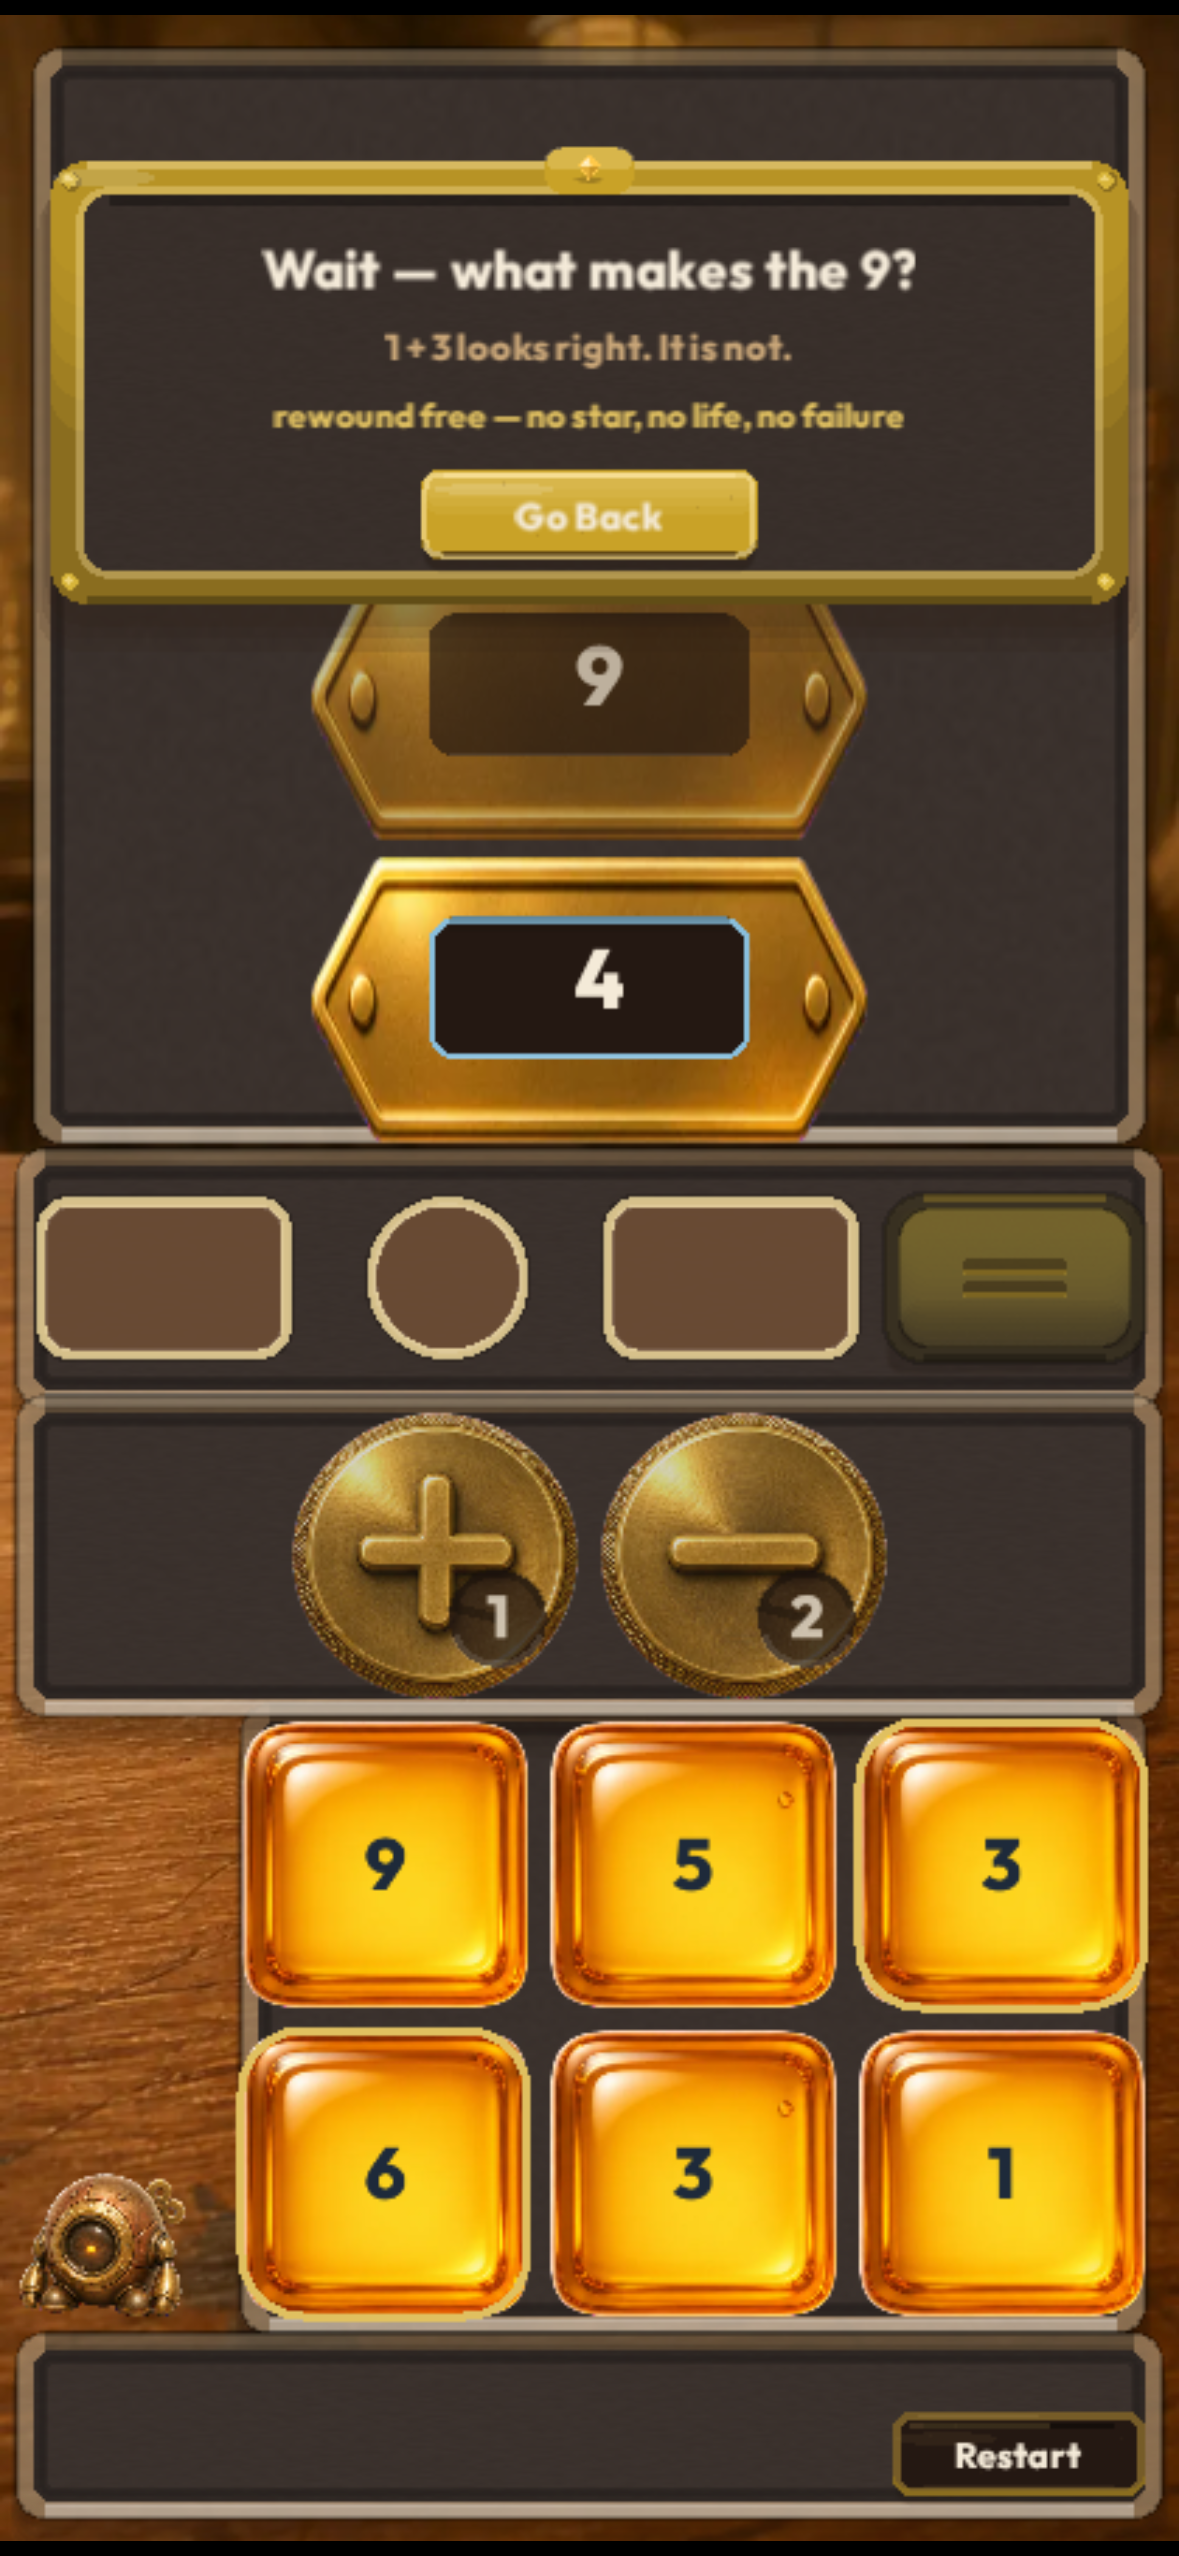
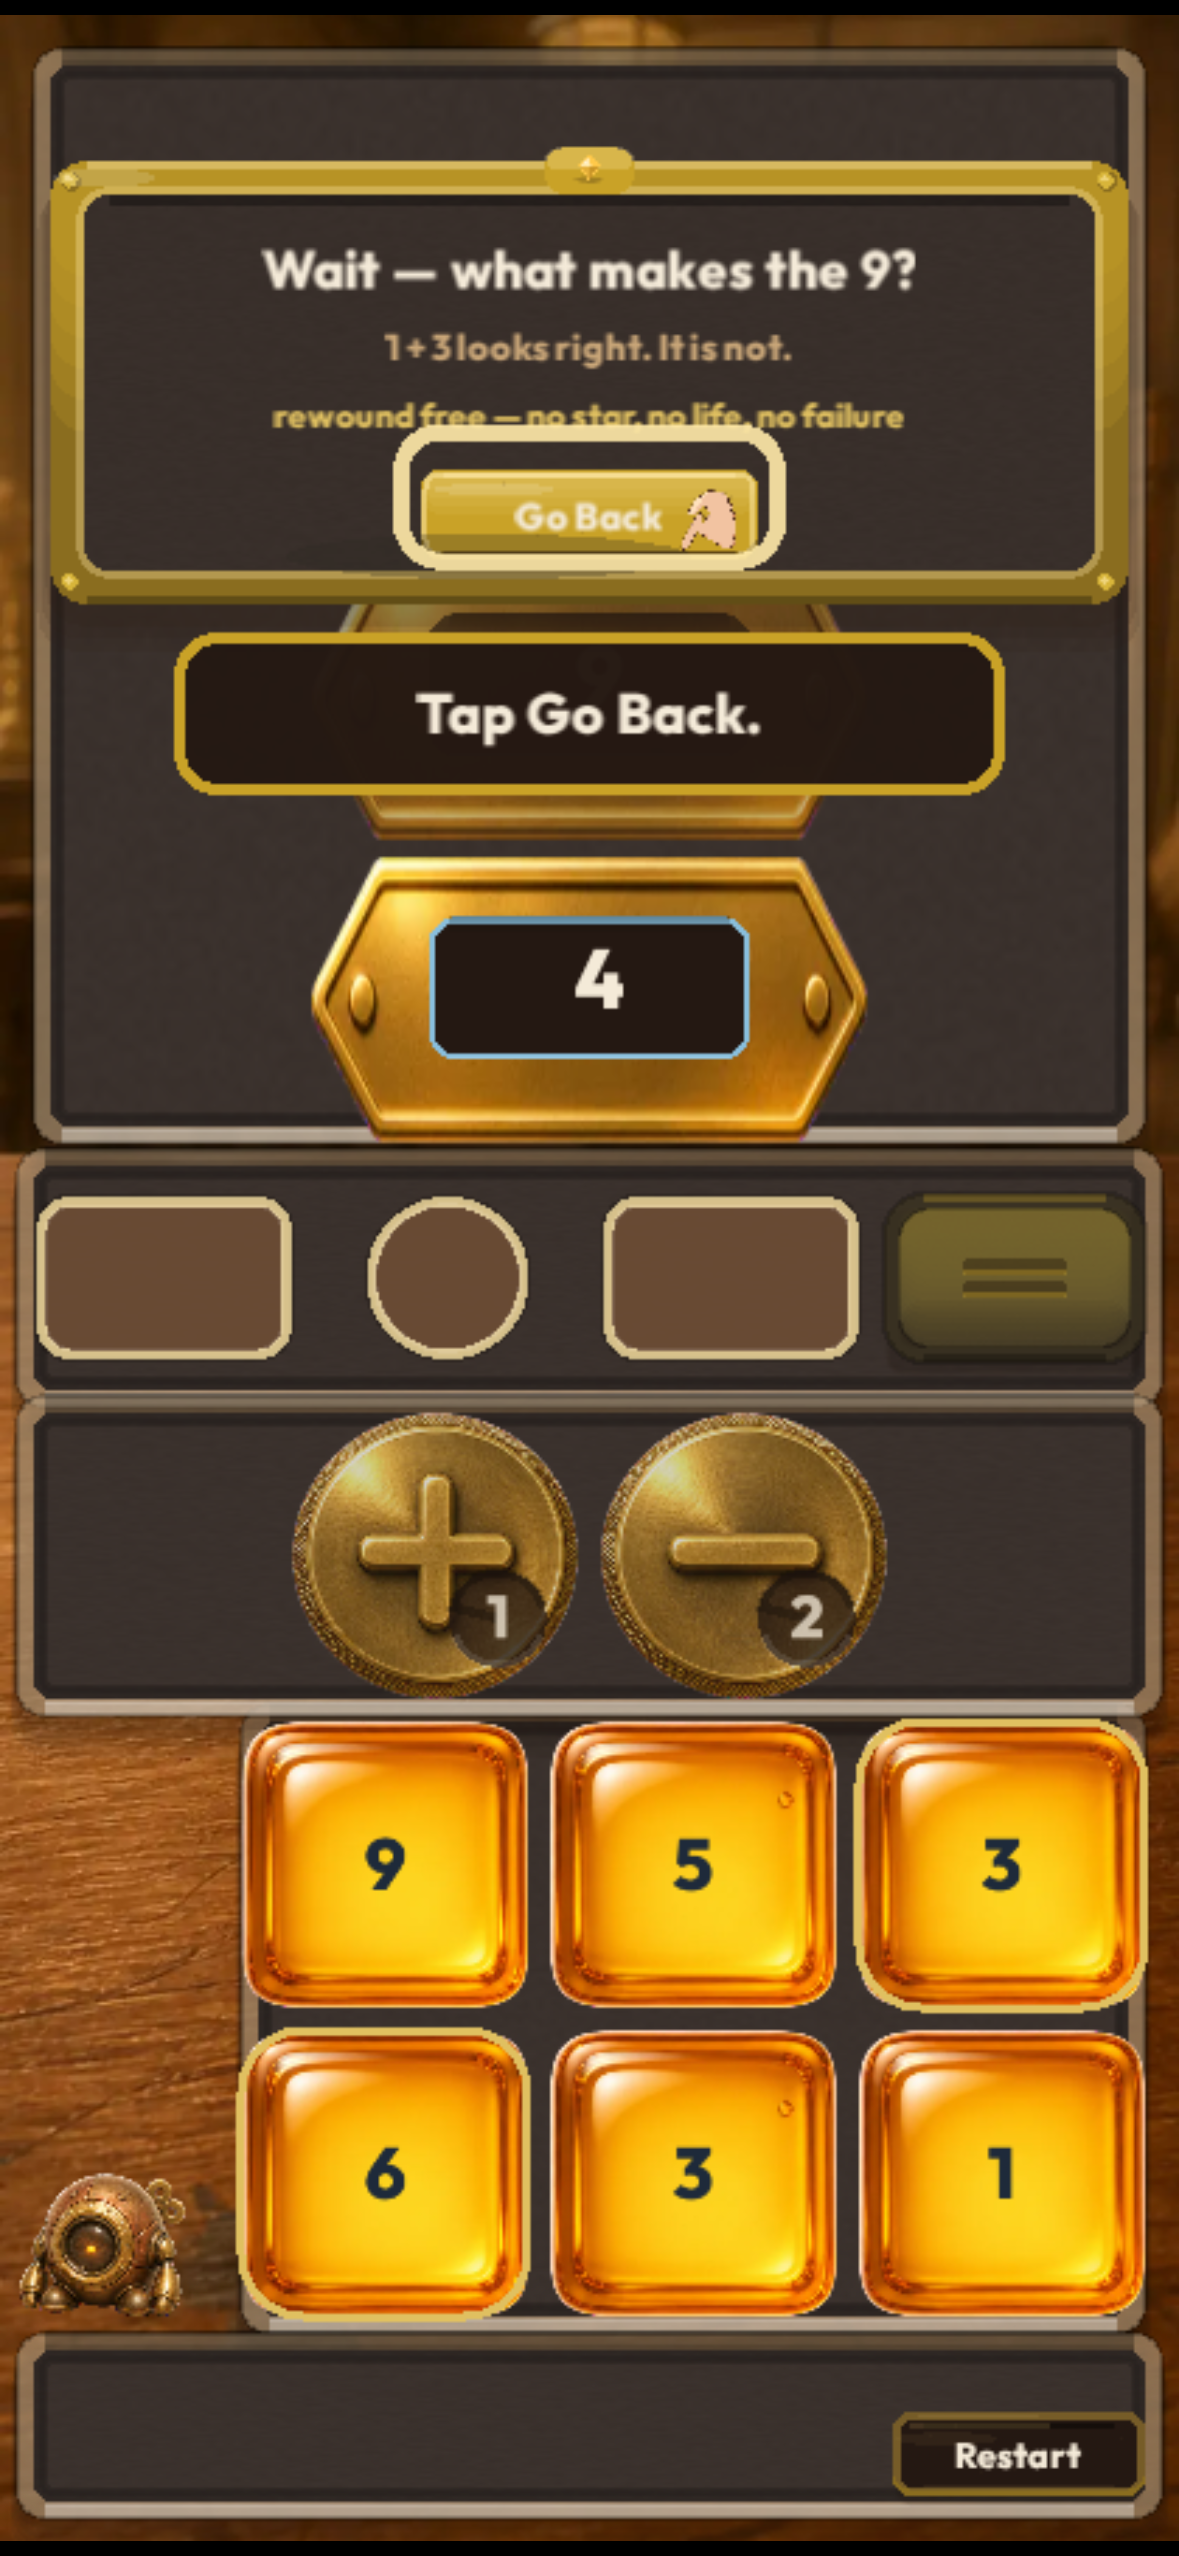
fix(ftue): point teach cue at 1-04 Go Back CTA
Settled scripted warning now draws hand+pulse+plaque on Go Back.
Recapture 25-ftue-104-v5-phone for Scout re-gate. v5 asset unchanged.

Changed region(s): [[0.1221, 0.1545, 0.855, 0.3091]]

diff --git a/src/renderer/renderer.ts b/src/renderer/renderer.ts
@@ -1427,6 +1427,52 @@ export class Renderer {
     this.root.addChild(this.box(center - 145, top + 160, 290, 38, "Start Level", () => this.emit({ type: "tapLevelIntroStart" }), { variant: "primary" }));
   }
 
+  /**
+   * Exact-action family: brass pulse ring + HUMAN-FINAL hand + caption plaque.
+   * Used for FTUE teach targets and for 1-04's settled Go Back CTA.
+   */
+  private drawExactActionCue(
+    rect: Rect,
+    line: string,
+    opts: { readonly ringAlphaScale?: number; readonly plaqueY?: number } = {},
+  ): void {
+    const cue = teachCueSample(rect, this.teachCueMs, DESIGN.width);
+    const ringAlphaScale = opts.ringAlphaScale ?? 1;
+    const shadow = new Graphics()
+      .ellipse(rect.x + rect.width * 0.2, rect.y + rect.height - 1, rect.width * 0.6, 8)
+      .fill({ color: PALETTE.text, alpha: cue.shadowAlpha });
+    shadow.zIndex = BOARD_BANDS.status + 19;
+    this.root.addChild(this.entry(shadow, BOARD_BANDS.status));
+
+    const ring = new Graphics()
+      .roundRect(rect.x - 7, rect.y - cue.lift - 7, rect.width + 14, rect.height + 14, 14)
+      .stroke({ width: 6, color: PALETTE.brassLit, alpha: cue.ringAlpha * ringAlphaScale });
+    ring.zIndex = BOARD_BANDS.status + 20;
+    this.root.addChild(this.entry(ring, BOARD_BANDS.status));
+
+    const hand = new Sprite(this.ftueHandTexture);
+    hand.anchor.set(0.31, 0.77);
+    hand.position.set(cue.handX, cue.handY);
+    hand.scale.set(0.22);
+    hand.rotation = -0.28;
+    hand.zIndex = BOARD_BANDS.status + 22;
+    hand.eventMode = "none";
+    this.root.addChild(this.entry(hand, BOARD_BANDS.status));
+
+    const plaqueRect = opts.plaqueY === undefined ? cue.plaque : { ...cue.plaque, y: opts.plaqueY };
+    const plaque = new Graphics()
+      .roundRect(plaqueRect.x, plaqueRect.y, plaqueRect.width, plaqueRect.height, 14)
+      .fill({ color: PALETTE.felt, alpha: 0.98 })
+      .stroke({ width: 4, color: PALETTE.brass });
+    plaque.zIndex = BOARD_BANDS.status + 21;
+    this.root.addChild(this.entry(plaque, BOARD_BANDS.status));
+    const copy = this.text(line, 20, PALETTE.tokenInk);
+    copy.anchor.set(0.5);
+    copy.position.set(plaqueRect.x + plaqueRect.width / 2, plaqueRect.y + plaqueRect.height / 2);
+    copy.zIndex = BOARD_BANDS.status + 23;
+    this.root.addChild(this.entry(copy, BOARD_BANDS.status));
+  }
+
   /** Shared exact-action marker: live target, brass breath, hand, contextual plaque. */
   private drawTeachCue(s: ViewState, board: Bands, availableOps: readonly (BinaryOp | UnaryOp)[]): void {
     const target = s.teachingTarget;
@@ -1446,61 +1492,55 @@ export class Renderer {
     }
     if (!rect) return;
 
-    const cue = teachCueSample(rect, this.teachCueMs, DESIGN.width);
     const queueSweep = target.kind === "queue";
-    const routeStart = queueSweep ? targetSlot(Math.max(0, s.targets.length - s.targetIndex - 1), board.lane, board.grid) : rect;
-    const startX = routeStart.x + routeStart.width / 2;
-    const startY = routeStart.y + routeStart.height / 2;
-    const targetX = rect.x + rect.width / 2;
-    const targetY = rect.y + rect.height / 2;
-    const sweep = queueSweep ? queueSweepSample(routeStart, rect, this.teachCueMs) : null;
-    const handX = sweep?.handX ?? cue.handX;
-    const handY = sweep?.handY ?? cue.handY;
     if (queueSweep) {
+      const routeStart = targetSlot(Math.max(0, s.targets.length - s.targetIndex - 1), board.lane, board.grid);
+      const startX = routeStart.x + routeStart.width / 2;
+      const startY = routeStart.y + routeStart.height / 2;
+      const targetX = rect.x + rect.width / 2;
+      const targetY = rect.y + rect.height / 2;
       const route = new Graphics()
         .moveTo(startX, startY)
         .lineTo(targetX, targetY)
         .stroke({ width: 3, color: PALETTE.brassLit, alpha: 0.72 });
       route.eventMode = "none";
       this.root.addChild(this.entry(route, BOARD_BANDS.status));
+      const cue = teachCueSample(rect, this.teachCueMs, DESIGN.width);
+      const sweep = queueSweepSample(routeStart, rect, this.teachCueMs);
+      const shadow = new Graphics()
+        .ellipse(rect.x + rect.width * 0.2, rect.y + rect.height - 1, rect.width * 0.6, 8)
+        .fill({ color: PALETTE.text, alpha: cue.shadowAlpha });
+      shadow.zIndex = BOARD_BANDS.status + 19;
+      this.root.addChild(this.entry(shadow, BOARD_BANDS.status));
+      const ring = new Graphics()
+        .roundRect(rect.x - 7, rect.y - cue.lift - 7, rect.width + 14, rect.height + 14, 14)
+        .stroke({ width: 6, color: PALETTE.brassLit, alpha: cue.ringAlpha * (sweep.targetAlpha || 0.35) });
+      ring.zIndex = BOARD_BANDS.status + 20;
+      this.root.addChild(this.entry(ring, BOARD_BANDS.status));
+      const hand = new Sprite(this.ftueHandTexture);
+      hand.anchor.set(0.31, 0.77);
+      hand.position.set(sweep.handX, sweep.handY);
+      hand.scale.set(0.22);
+      hand.rotation = -0.28;
+      hand.zIndex = BOARD_BANDS.status + 22;
+      hand.eventMode = "none";
+      this.root.addChild(this.entry(hand, BOARD_BANDS.status));
+      const plaqueRect = { ...cue.plaque, y: board.equation.y + 10 };
+      const plaque = new Graphics()
+        .roundRect(plaqueRect.x, plaqueRect.y, plaqueRect.width, plaqueRect.height, 14)
+        .fill({ color: PALETTE.felt, alpha: 0.98 })
+        .stroke({ width: 4, color: PALETTE.brass });
+      plaque.zIndex = BOARD_BANDS.status + 21;
+      this.root.addChild(this.entry(plaque, BOARD_BANDS.status));
+      const copy = this.text(s.teachingLine, 20, PALETTE.tokenInk);
+      copy.anchor.set(0.5);
+      copy.position.set(plaqueRect.x + plaqueRect.width / 2, plaqueRect.y + plaqueRect.height / 2);
+      copy.zIndex = BOARD_BANDS.status + 23;
+      this.root.addChild(this.entry(copy, BOARD_BANDS.status));
+      return;
     }
-    const shadow = new Graphics()
-      .ellipse(rect.x + rect.width * 0.2, rect.y + rect.height - 1, rect.width * 0.6, 8)
-      .fill({ color: PALETTE.text, alpha: cue.shadowAlpha });
-    shadow.zIndex = BOARD_BANDS.status + 19;
-    this.root.addChild(this.entry(shadow, BOARD_BANDS.status));
 
-    const ring = new Graphics()
-      .roundRect(rect.x - 7, rect.y - cue.lift - 7, rect.width + 14, rect.height + 14, 14)
-      .stroke({ width: 6, color: PALETTE.brassLit, alpha: cue.ringAlpha * (sweep?.targetAlpha ?? 1) });
-    ring.zIndex = BOARD_BANDS.status + 20;
-    this.root.addChild(this.entry(ring, BOARD_BANDS.status));
-
-    // The authored hand sprite is anchored so its fingertip lands on the live control.
-    const hand = new Sprite(this.ftueHandTexture);
-    hand.anchor.set(0.31, 0.77);
-    hand.position.set(handX, handY);
-    hand.scale.set(0.22);
-    hand.rotation = -0.28;
-    hand.zIndex = BOARD_BANDS.status + 22;
-    this.root.addChild(this.entry(hand, BOARD_BANDS.status));
-
-    // The queue lesson must leave all three targets visible; seat its caption
-    // over the unused equation row rather than across the queue it names.
-    const plaqueRect = queueSweep
-      ? { ...cue.plaque, y: board.equation.y + 10 }
-      : cue.plaque;
-    const plaque = new Graphics()
-      .roundRect(plaqueRect.x, plaqueRect.y, plaqueRect.width, plaqueRect.height, 14)
-      .fill({ color: PALETTE.felt, alpha: 0.98 })
-      .stroke({ width: 4, color: PALETTE.brass });
-    plaque.zIndex = BOARD_BANDS.status + 21;
-    this.root.addChild(this.entry(plaque, BOARD_BANDS.status));
-    const copy = this.text(s.teachingLine, 20, PALETTE.tokenInk);
-    copy.anchor.set(0.5);
-    copy.position.set(plaqueRect.x + plaqueRect.width / 2, plaqueRect.y + plaqueRect.height / 2);
-    copy.zIndex = BOARD_BANDS.status + 23;
-    this.root.addChild(this.entry(copy, BOARD_BANDS.status));
+    this.drawExactActionCue(rect, s.teachingLine);
   }
 
   private draw(): void {
@@ -2446,6 +2486,17 @@ export class Renderer {
             { variant: w.scripted ? "primary" : "secondary" },
           ),
         );
+      }
+
+      // 1-04 settled rewind: same hand+pulse+plaque family as board FTUE cues,
+      // pointed at the live Go Back CTA (not only modal copy).
+      if (w.scripted) {
+        const goBack: Rect = w.overridable
+          ? { x: midX - 128, y: topY + 104, width: 124, height: 34 }
+          : { x: midX - 60, y: topY + 98, width: 120, height: 32 };
+        this.drawExactActionCue(goBack, "Tap Go Back.", {
+          plaqueY: panelY + panelH + 12,
+        });
       }
     }
 
